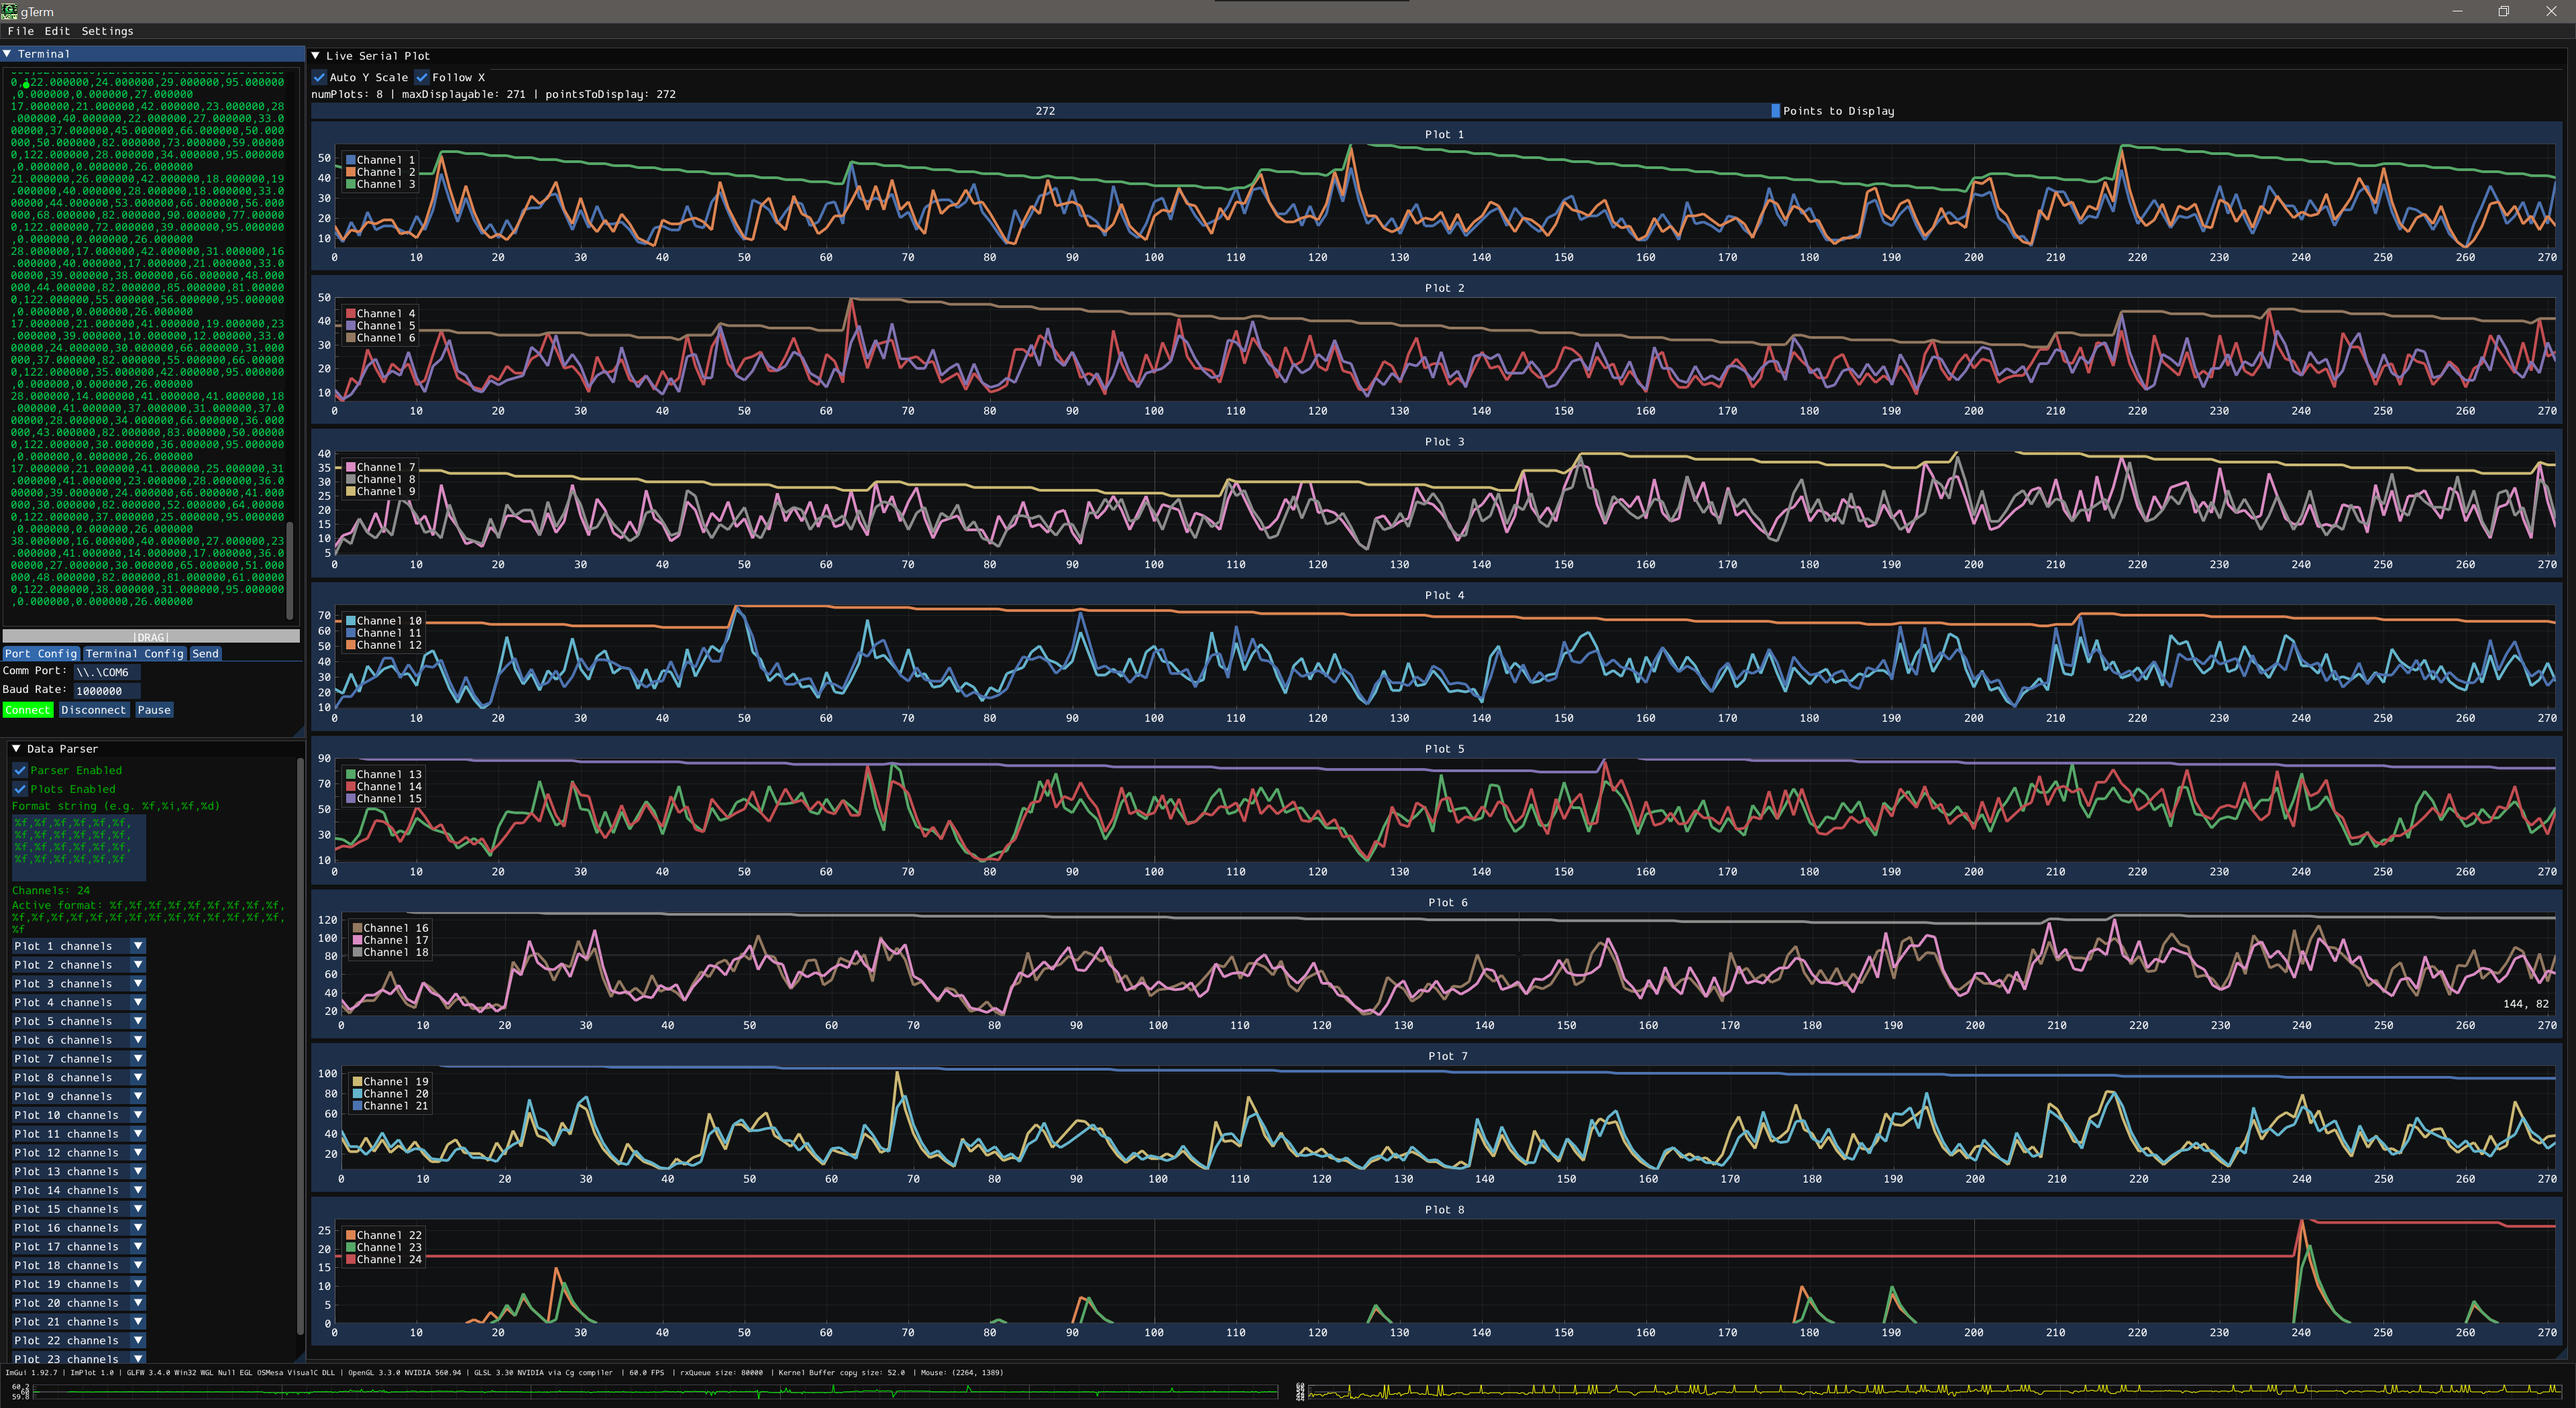
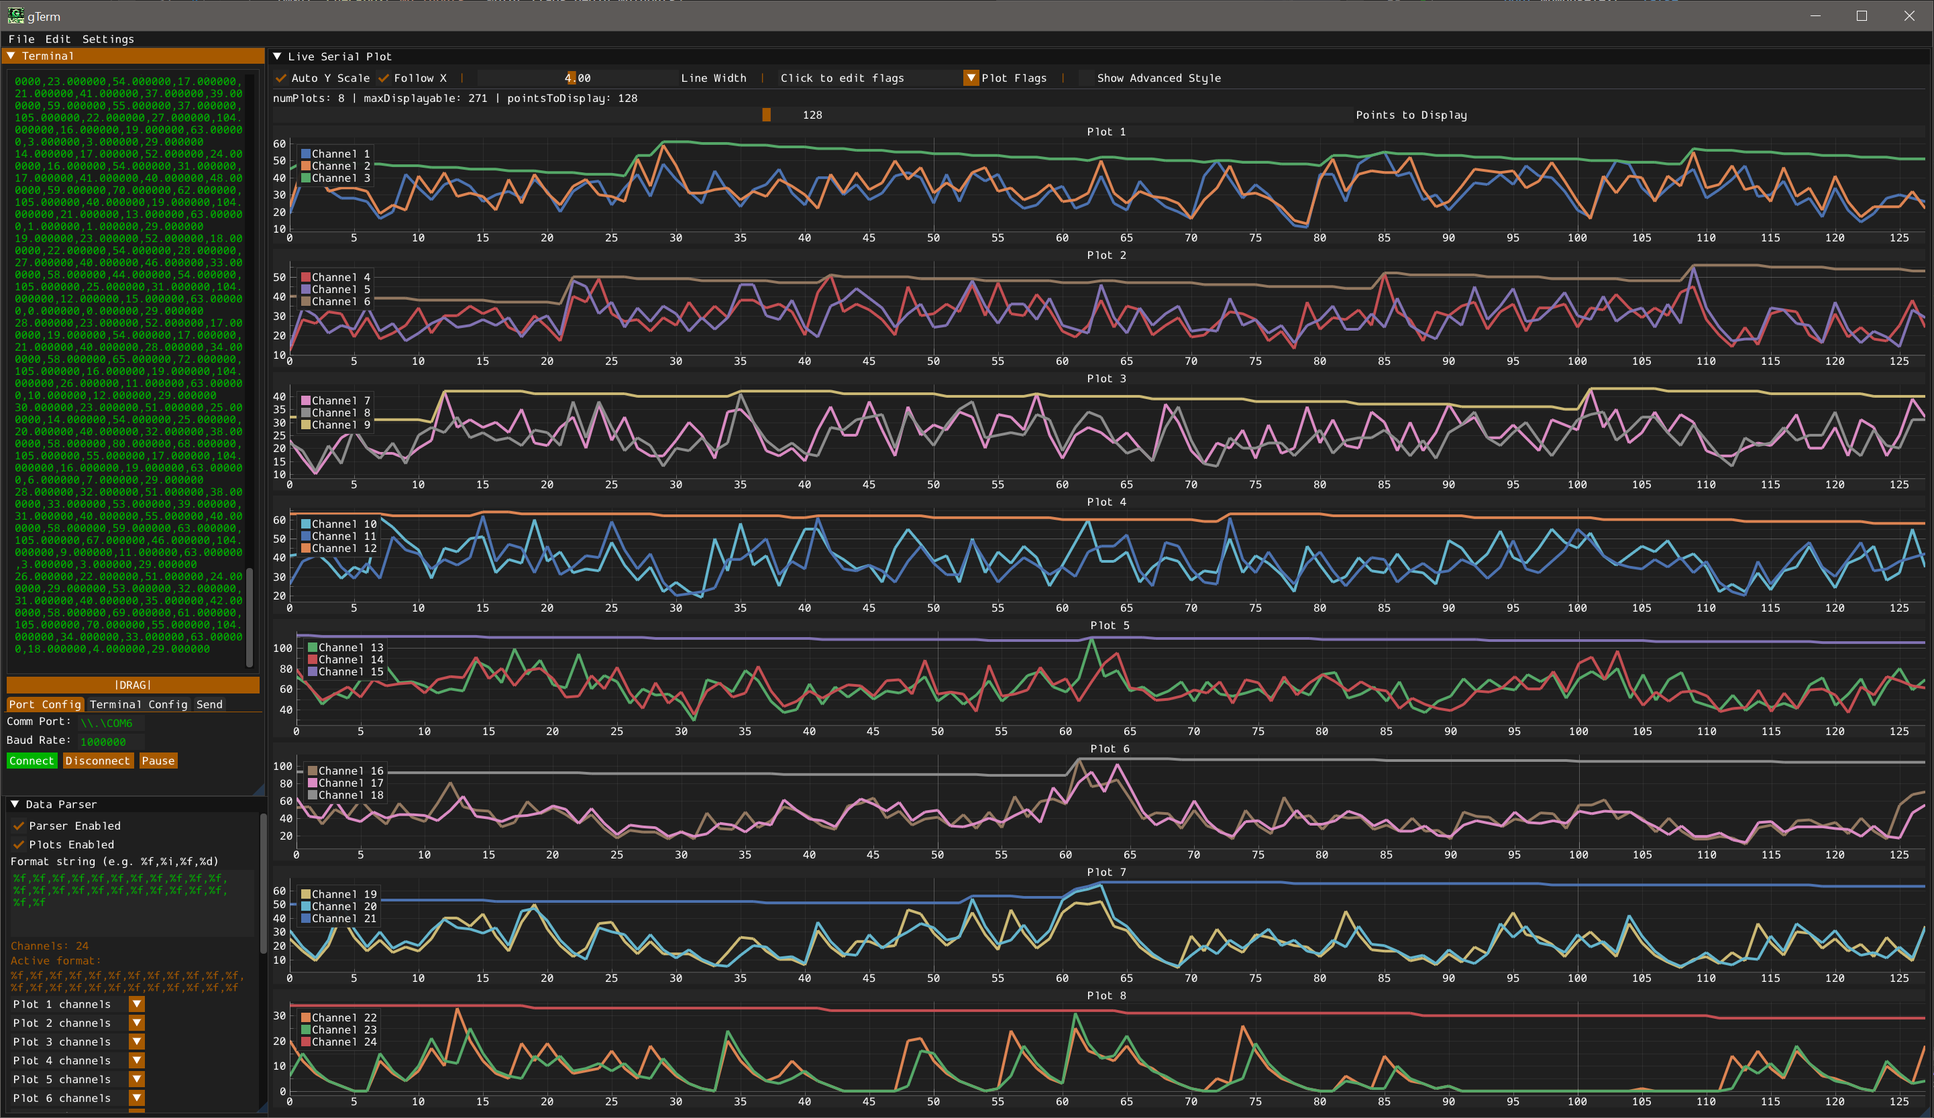
added advanced setting to style the plots. prob need a flag to only update the style when a change has occured using a single flag instead of every loop

diff --git a/gTerm/dataPlotter.cpp b/gTerm/dataPlotter.cpp
@@ -13,7 +13,89 @@ void dataPlotter::update(const std::deque<char>& rxDeque)
     ImGui::Checkbox("Auto Y Scale", &autoScale);
     ImGui::SameLine();
     ImGui::Checkbox("Follow X", &follow_x);
-    ImGui::SameLine();
+    
+    verticalSeparator();
+    
+    ImGui::PushItemWidth(300.0f);
+    ImGui::SliderFloat("Line Width", &plot_line_weight_slider_var, plot_line_weight_min, plot_line_weight_max, "%.2f");
+    ImGui::PopItemWidth();
+
+    verticalSeparator();
+
+    ImGui::PushItemWidth(300.0f);
+    if (ImGui::BeginCombo("Plot Flags##config", "Click to edit flags")) {
+
+        ImGui::Checkbox("No Title", &plot_flags_begin.NoTitle);
+        ImGui::Checkbox("No Legend", &plot_flags_begin.NoLegend);
+        ImGui::Checkbox("No Mouse Text", &plot_flags_begin.NoMouseText);
+        ImGui::Checkbox("No Inputs", &plot_flags_begin.NoInputs);
+        ImGui::Checkbox("No Menus", &plot_flags_begin.NoMenus);
+        ImGui::Checkbox("No Box Select", &plot_flags_begin.NoBoxSelect);
+        ImGui::Checkbox("No Frame", &plot_flags_begin.NoFrame);
+        ImGui::Checkbox("Equal Aspect", &plot_flags_begin.Equal);
+        ImGui::Checkbox("Crosshairs", &plot_flags_begin.Crosshairs);
+
+        ImGui::EndCombo();
+    }
+    ImGui::PopItemWidth();
+
+
+    verticalSeparator();
+
+    ImGui::Checkbox("Show Advanced Style", &show_advanced_syle_setting);
+
+
+    // Cleaner version - direct bitwise OR (no if statements)
+    ImPlotFlags flags_begin = ImPlotFlags_None
+        | (plot_flags_begin.NoTitle ? ImPlotFlags_NoTitle : 0)
+        | (plot_flags_begin.NoLegend ? ImPlotFlags_NoLegend : 0)
+        | (plot_flags_begin.NoMouseText ? ImPlotFlags_NoMouseText : 0)
+        | (plot_flags_begin.NoInputs ? ImPlotFlags_NoInputs : 0)
+        | (plot_flags_begin.NoMenus ? ImPlotFlags_NoMenus : 0)
+        | (plot_flags_begin.NoBoxSelect ? ImPlotFlags_NoBoxSelect : 0)
+        | (plot_flags_begin.NoFrame ? ImPlotFlags_NoFrame : 0)
+        | (plot_flags_begin.Equal ? ImPlotFlags_Equal : 0)
+        | (plot_flags_begin.Crosshairs ? ImPlotFlags_Crosshairs : 0);
+
+
+
+    //===============================================================================
+    if (show_advanced_syle_setting) {
+        if (ImGui::CollapsingHeader("Plot Style Variables")) {
+            ImGui::SliderFloat("Border Size", &plotStyle.PlotBorderSize, 0.0f, 8.0f, "%.1f");
+            ImGui::SliderFloat("Minor Alpha", &plotStyle.MinorAlpha, 0.0f, 1.0f, "%.2f");
+            ImGui::SliderFloat("Digital Padding", &plotStyle.DigitalPadding, 0.0f, 50.0f, "%.0f");
+            ImGui::SliderFloat("Digital Spacing", &plotStyle.DigitalSpacing, 0.0f, 20.0f, "%.0f");
+
+            ImGui::Separator();
+            ImGui::Text("Padding & Spacing");
+            ImGui::SliderFloat2("Plot Padding", &plotStyle.PlotPadding.x, 0.0f, 30.0f, "%.0f");
+            ImGui::SliderFloat2("Label Padding", &plotStyle.LabelPadding.x, 0.0f, 20.0f, "%.0f");
+            ImGui::SliderFloat2("Legend Padding", &plotStyle.LegendPadding.x, 0.0f, 30.0f, "%.0f");
+            ImGui::SliderFloat2("Legend Inner", &plotStyle.LegendInnerPadding.x, 0.0f, 20.0f, "%.0f");
+            ImGui::SliderFloat2("Legend Spacing", &plotStyle.LegendSpacing.x, 0.0f, 20.0f, "%.0f");
+
+            ImGui::Separator();
+            ImGui::Text("Ticks & Grid");
+            ImGui::SliderFloat2("Major Tick Len", &plotStyle.MajorTickLen.x, 0.0f, 30.0f, "%.0f");
+            ImGui::SliderFloat2("Minor Tick Len", &plotStyle.MinorTickLen.x, 0.0f, 20.0f, "%.0f");
+            ImGui::SliderFloat2("Major Grid Size", &plotStyle.MajorGridSize.x, 0.0f, 5.0f, "%.1f");
+            ImGui::SliderFloat2("Minor Grid Size", &plotStyle.MinorGridSize.x, 0.0f, 5.0f, "%.1f");
+
+            ImGui::Separator();
+            ImGui::Text("Other");
+            ImGui::SliderFloat2("Mouse Pos Pad", &plotStyle.MousePosPadding.x, 0.0f, 20.0f, "%.0f");
+            ImGui::SliderFloat2("Annotation Pad", &plotStyle.AnnotationPadding.x, 0.0f, 15.0f, "%.0f");
+            ImGui::SliderFloat2("Fit Padding", &plotStyle.FitPadding.x, 0.0f, 0.5f, "%.2f");
+        }
+    }
+    //===============================================================================
+
+
+
+
+
+
 
     // ====================== Parser controls plot assignment ======================
     //ImGui::Separator();
@@ -95,8 +177,8 @@ void dataPlotter::update(const std::deque<char>& rxDeque)
         anyPlotDrawn = true;
 
         std::string title = "Plot " + std::to_string(p + 1);
-
-        if (ImPlot::BeginPlot(title.c_str(), plotSize, ImPlotFlags_Crosshairs)) {
+        applyStyle();
+        if (ImPlot::BeginPlot(title.c_str(), plotSize, flags_begin)) {
             ImPlot::SetupAxisLimitsConstraints(ImAxis_X1, 0.0, (double)maxDisplayable + 8);
             ImPlot::SetupAxes(NULL, NULL, ImPlotAxisFlags_NoLabel);
 
@@ -126,7 +208,7 @@ void dataPlotter::update(const std::deque<char>& rxDeque)
                 // New ImPlot 1.0 way
                 ImPlotSpec spec;
                 spec.LineColor = color;
-                spec.LineWeight = 4.0f;
+                spec.LineWeight = plot_line_weight_slider_var;
 
                 ImPlot::PlotLine(label.c_str(),
                     x_data.data(),
@@ -142,7 +224,7 @@ void dataPlotter::update(const std::deque<char>& rxDeque)
     }
 
     if (!anyPlotDrawn) {
-        ImGui::Text("No channels assigned to any plot yet.\nUse the checkboxes in Data_Manipulation_Region to assign channels.");
+        ImGui::Text("No channels assigned to any plot yet.\nUse the checkboxes in Data Parser to assign channels.");
     }
 
     ImGui::End();
@@ -152,4 +234,37 @@ void dataPlotter::clearSamples() {
     currentSamples.clear();
     currentSamples.shrink_to_fit();
     pointsToDisplay = 128;
+}
+
+
+void dataPlotter::verticalSeparator() {
+    //ImVec4(0.65f, 0.35f, 0.00f, 1.00f); //add Orange Accent
+    ImGui::PushStyleColor(ImGuiCol_Text, ImVec4(0.65f, 0.35f, 0.0f, 1.0f));
+    ImGui::SameLine();
+    ImGui::Text(" | ");
+    ImGui::SameLine();
+    ImGui::PopStyleColor(1);
+}
+
+void dataPlotter::applyStyle() {
+    // === Apply Runtime Plot Style ===
+    ImPlot::PushStyleVar(ImPlotStyleVar_PlotBorderSize, plotStyle.PlotBorderSize);
+    ImPlot::PushStyleVar(ImPlotStyleVar_MinorAlpha, plotStyle.MinorAlpha);
+    ImPlot::PushStyleVar(ImPlotStyleVar_DigitalPadding, plotStyle.DigitalPadding);
+    ImPlot::PushStyleVar(ImPlotStyleVar_DigitalSpacing, plotStyle.DigitalSpacing);
+
+    ImPlot::PushStyleVar(ImPlotStyleVar_PlotPadding, plotStyle.PlotPadding);
+    ImPlot::PushStyleVar(ImPlotStyleVar_LabelPadding, plotStyle.LabelPadding);
+    ImPlot::PushStyleVar(ImPlotStyleVar_LegendPadding, plotStyle.LegendPadding);
+    ImPlot::PushStyleVar(ImPlotStyleVar_LegendInnerPadding, plotStyle.LegendInnerPadding);
+    ImPlot::PushStyleVar(ImPlotStyleVar_LegendSpacing, plotStyle.LegendSpacing);
+
+    ImPlot::PushStyleVar(ImPlotStyleVar_MajorTickLen, plotStyle.MajorTickLen);
+    ImPlot::PushStyleVar(ImPlotStyleVar_MinorTickLen, plotStyle.MinorTickLen);
+    ImPlot::PushStyleVar(ImPlotStyleVar_MajorGridSize, plotStyle.MajorGridSize);
+    ImPlot::PushStyleVar(ImPlotStyleVar_MinorGridSize, plotStyle.MinorGridSize);
+
+    ImPlot::PushStyleVar(ImPlotStyleVar_MousePosPadding, plotStyle.MousePosPadding);
+    ImPlot::PushStyleVar(ImPlotStyleVar_AnnotationPadding, plotStyle.AnnotationPadding);
+    ImPlot::PushStyleVar(ImPlotStyleVar_FitPadding, plotStyle.FitPadding);
 }

diff --git a/gTerm/dataPlotter.h b/gTerm/dataPlotter.h
@@ -26,17 +26,71 @@ public:
     int pointsToDisplay = 128; //default value. may consider adjusting dynamically based on currentSamples size
     size_t lastPointsToDisplay = 0;
     const size_t minDisplayable = 8;
+    
+
+
+
+
+
 
     void update(const std::deque<char>& rxDeque);
     
     void clearSamples();
+
 
 private:
 
     // UI State
     bool autoScale = true;
     bool follow_x = true;
+    bool show_advanced_syle_setting = false;
     
+    float plot_line_weight_slider_var = 4.00f;
+    const float plot_line_weight_min = 0.50f;
+    const float plot_line_weight_max = 8.00f;
+
+    //TODO: we dont need this implot already has this struct called ImPlotItemFlags
+    // and that exists in the ImPlotSpec struct
+    // Struct to hold runtime plot flags
+    struct plot_flags_begin {
+        bool NoTitle = false;
+        bool NoLegend = false;
+        bool NoMouseText = false;
+        bool NoInputs = false;
+        bool NoMenus = false;
+        bool NoBoxSelect = false;
+        bool NoFrame = false;
+        bool Equal = false;
+        bool Crosshairs = true;      // default on like before
+    } plot_flags_begin;
+
+
+    // ====================== FULL RUNTIME PLOT STYLE STRUCT ======================
+    struct plot_style_vars {
+        float  PlotBorderSize = 0.0f;
+        float  MinorAlpha = 0.25f;
+        float  DigitalPadding = 0.0f;
+        float  DigitalSpacing = 4.0f;
+
+        ImVec2 PlotPadding = ImVec2(0.0f, 0.0f);
+        ImVec2 LabelPadding = ImVec2(5.0f, 0.0f); //This one was wasting vertical space
+        ImVec2 LegendPadding = ImVec2(10.0f, 10.0f);
+        ImVec2 LegendInnerPadding = ImVec2(5.0f, 5.0f);
+        ImVec2 LegendSpacing = ImVec2(5.0f, 0.0f);
+        ImVec2 MajorTickLen = ImVec2(10.0f, 10.0f);
+        ImVec2 MinorTickLen = ImVec2(5.0f, 5.0f);
+        ImVec2 MajorGridSize = ImVec2(1.0f, 1.0f);
+        ImVec2 MinorGridSize = ImVec2(1.0f, 1.0f);
+        ImVec2 MousePosPadding = ImVec2(5.0f, 5.0f);
+        ImVec2 AnnotationPadding = ImVec2(4.0f, 4.0f);
+        ImVec2 FitPadding = ImVec2(0.1f, 0.1f);
+    } plotStyle;
+
+
+
+
+    void applyStyle();
+    void verticalSeparator();
 };
 
 #endif // DATAPLOTTER_H
